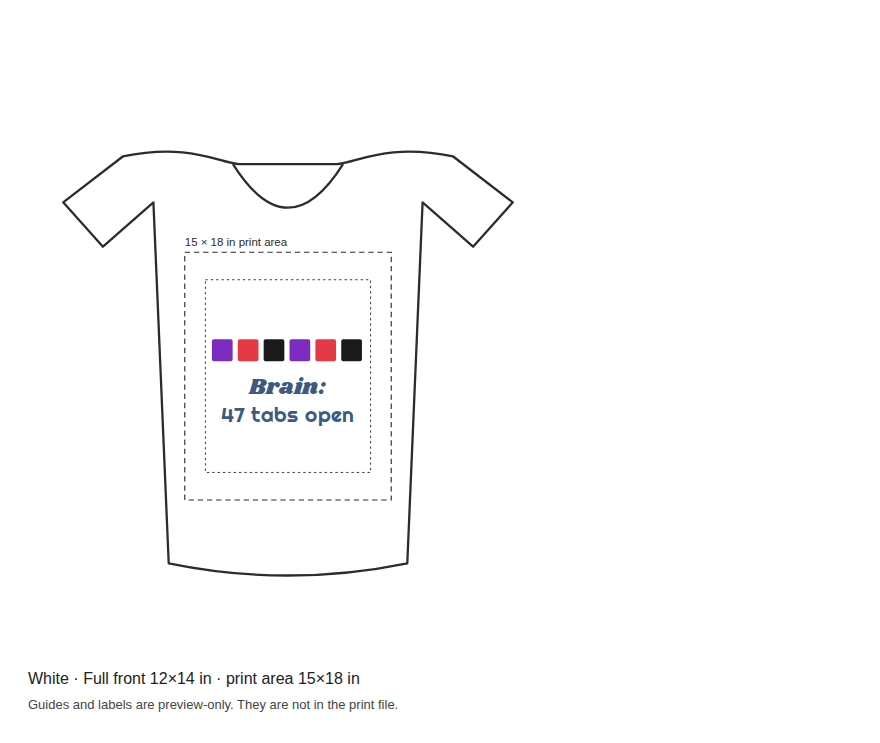
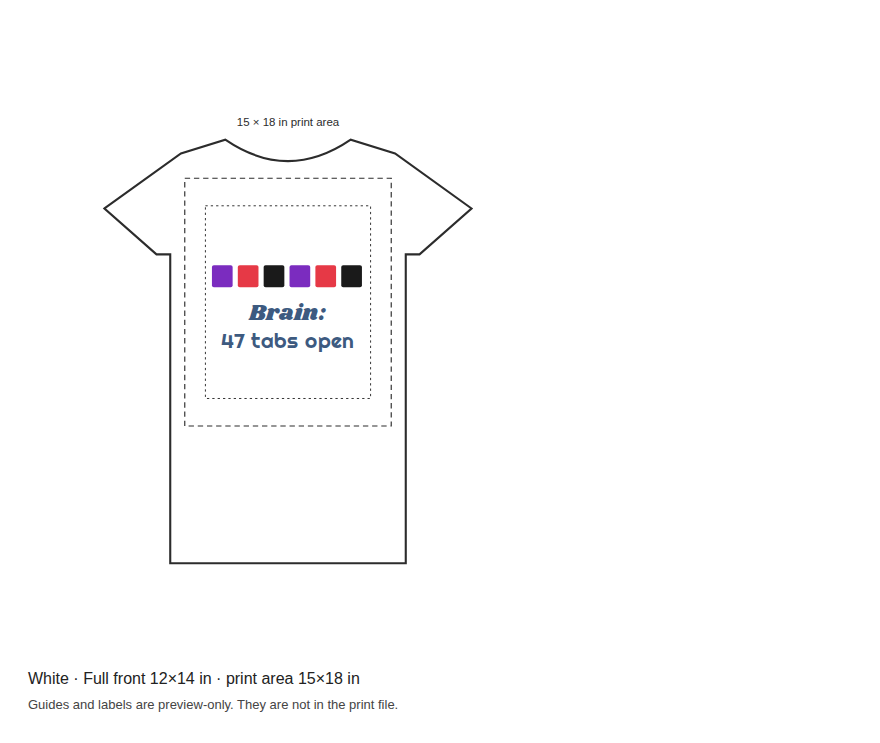
Redraw the tee wireframe as a flat crew-neck shirt.
Sleeves angle down to a straight hem with a short armhole notch, the body sides and hem are straight, and the print area stays on the chest.

diff --git a/components/tees/TeeWireframe.tsx b/components/tees/TeeWireframe.tsx
@@ -3,20 +3,21 @@ import { WIREFRAME, wireframeDesignRect, wireframePrintRect } from '@/lib/teeSiz
 import type { InkSetName, ShirtColor } from '@/types/theme';
 import type { ResolvedTee } from '@/types/tee';
 
+// Flat short-sleeve tee: shallow crew neck, sleeves angling down and out,
+// straight angled sleeve hems, a short armhole notch, vertical sides, straight hem.
 const BODY_PATH = [
-  'M 124 168',
-  'L 46 228',
-  'L 98 286',
-  'L 164 228',
-  'L 184 700',
-  'Q 340 732 496 700',
-  'L 516 228',
-  'L 582 286',
-  'L 634 228',
-  'L 556 168',
-  'C 470 150 430 176 404 178',
-  'L 276 178',
-  'C 250 176 210 150 124 168',
+  'M 100 236',
+  'L 200 164',
+  'L 258 146',
+  'Q 340 202 422 146',
+  'L 480 164',
+  'L 580 236',
+  'L 512 296',
+  'L 494 296',
+  'L 494 700',
+  'L 186 700',
+  'L 186 296',
+  'L 168 296',
   'Z',
 ].join(' ');
 
@@ -52,8 +53,14 @@ export function TeeWireframe({
         role="img"
         aria-label={`${shirt.name} tee wireframe`}
       >
-        <path d={BODY_PATH} fill={shirt.hex} stroke={line} strokeWidth={3} strokeLinejoin="round" />
-        <path d="M 268 178 Q 340 292 412 178" fill="none" stroke={line} strokeWidth={3} />
+        <path
+          d={BODY_PATH}
+          fill={shirt.hex}
+          stroke={line}
+          strokeWidth={2.75}
+          strokeLinejoin="miter"
+          strokeMiterlimit={3}
+        />
         {guides ? (
           <>
             <rect
@@ -76,7 +83,14 @@ export function TeeWireframe({
               strokeWidth={1.25}
               strokeDasharray="3 4"
             />
-            <text x={print.x} y={print.y - 8} fill={line} fontSize={15} fontFamily="ui-sans-serif, sans-serif">
+            <text
+              x={WIREFRAME.centerX}
+              y={128}
+              textAnchor="middle"
+              fill={line}
+              fontSize={15}
+              fontFamily="ui-sans-serif, sans-serif"
+            >
               {label}
             </text>
           </>

diff --git a/lib/teeSizes.ts b/lib/teeSizes.ts
@@ -81,8 +81,9 @@ export const WIREFRAME = {
   viewHeight: 820,
   pxPerIn: 18,
   centerX: 340,
-  necklineBottom: 286,
-  gapBelowNeckIn: 0.4,
+  // Lowest point of the shallow crew scoop in TeeWireframe (quadratic at t=0.5).
+  necklineBottom: 174,
+  gapBelowNeckIn: 1.25,
 };
 
 export function wireframePrintRect() {
